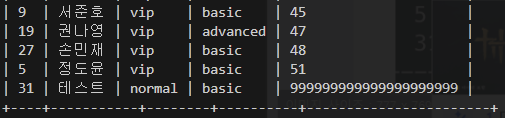
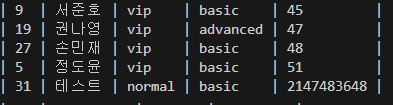
fix: restore numeric validation and signed literal parsing

diff --git a/tests/test_executor.c b/tests/test_executor.c
@@ -5,6 +5,7 @@
 #include "test_helpers.h"
 
 #include <limits.h>
+#include <stdio.h>
 
 static int run_statement(const char *sql) {
     Token *tokens;
@@ -155,6 +156,80 @@ static int test_unknown_order_by_column_rejected(void) {
     return 1;
 }
 
+static int test_int_overflow_rejected(void) {
+    char workspace[PATH_MAX];
+    char schema_dir[PATH_MAX];
+    char data_dir[PATH_MAX];
+
+    if (!th_setup_workspace("executor_int_overflow", workspace, sizeof(workspace))) {
+        return th_fail("failed to create temporary workspace");
+    }
+
+    th_join_path(schema_dir, sizeof(schema_dir), workspace, "schemas");
+    th_join_path(data_dir, sizeof(data_dir), workspace, "data");
+
+    if (!th_write_members_schema(schema_dir)) {
+        th_remove_tree(workspace);
+        return th_fail("failed to write members schema");
+    }
+
+    config_set_schema_dir(schema_dir);
+    config_set_data_dir(data_dir);
+
+    if (run_statement(
+            "INSERT INTO members (id, name, grade, class, age) VALUES (3, 'Alice', 'vip', 'advanced', 999999999999999999999);") !=
+        -1) {
+        th_remove_tree(workspace);
+        return th_fail("INT overflow should fail");
+    }
+
+    th_remove_tree(workspace);
+    return 1;
+}
+
+static int test_float_and_date_validation_rejected(void) {
+    char workspace[PATH_MAX];
+    char schema_dir[PATH_MAX];
+    char data_dir[PATH_MAX];
+    char schema_path[PATH_MAX];
+
+    if (!th_setup_workspace("executor_float_date", workspace, sizeof(workspace))) {
+        return th_fail("failed to create temporary workspace");
+    }
+
+    th_join_path(schema_dir, sizeof(schema_dir), workspace, "schemas");
+    th_join_path(data_dir, sizeof(data_dir), workspace, "data");
+    th_join_path(schema_path, sizeof(schema_path), schema_dir, "typed_values.schema");
+
+    if (!th_write_text_file(schema_path,
+                            "id,INT,0,0,1\n"
+                            "score,FLOAT,0,0,0\n"
+                            "created_at,DATE,0,0,0\n")) {
+        th_remove_tree(workspace);
+        return th_fail("failed to write typed_values schema");
+    }
+
+    config_set_schema_dir(schema_dir);
+    config_set_data_dir(data_dir);
+
+    if (run_statement(
+            "INSERT INTO typed_values (id, score, created_at) VALUES (1, 'nan', '2026-04-08');") !=
+        -1) {
+        th_remove_tree(workspace);
+        return th_fail("non-finite FLOAT should fail");
+    }
+
+    if (run_statement(
+            "INSERT INTO typed_values (id, score, created_at) VALUES (2, 1.5, '2026-02-31');") !=
+        -1) {
+        th_remove_tree(workspace);
+        return th_fail("invalid DATE should fail");
+    }
+
+    th_remove_tree(workspace);
+    return 1;
+}
+
 int main(void) {
     int passed = 0;
     int failed = 0;
@@ -193,6 +268,24 @@ int main(void) {
     } else {
         failed++;
         th_print_result("unknown_order_by_column_rejected", 0);
+    }
+
+    th_reset_reason();
+    if (test_int_overflow_rejected()) {
+        passed++;
+        th_print_result("int_overflow_rejected", 1);
+    } else {
+        failed++;
+        th_print_result("int_overflow_rejected", 0);
+    }
+
+    th_reset_reason();
+    if (test_float_and_date_validation_rejected()) {
+        passed++;
+        th_print_result("float_and_date_validation_rejected", 1);
+    } else {
+        failed++;
+        th_print_result("float_and_date_validation_rejected", 0);
     }
 
     printf("Tests: %d passed, %d failed\n", passed, failed);

diff --git a/src/lexer.c b/src/lexer.c
@@ -125,6 +125,50 @@ static int read_string_literal(const char *sql,
     return -1;
 }
 
+static int read_number_literal(const char *sql,
+                               int *cursor,
+                               int line,
+                               Token **tokens,
+                               int *count,
+                               int *capacity) {
+    char buffer[MAX_TOKEN_LEN];
+    int length = 0;
+    int index = *cursor;
+    int seen_dot = 0;
+    int seen_digit = 0;
+
+    if (sql[index] == '+' || sql[index] == '-') {
+        if (length < MAX_TOKEN_LEN - 1) {
+            buffer[length++] = sql[index];
+        }
+        index++;
+    }
+
+    while (isdigit((unsigned char)sql[index]) || sql[index] == '.') {
+        if (sql[index] == '.') {
+            if (seen_dot) {
+                break;
+            }
+            seen_dot = 1;
+        } else {
+            seen_digit = 1;
+        }
+
+        if (length < MAX_TOKEN_LEN - 1) {
+            buffer[length++] = sql[index];
+        }
+        index++;
+    }
+
+    if (!seen_digit) {
+        return 0;
+    }
+
+    buffer[length] = '\0';
+    *cursor = index;
+    return append_token(tokens, count, capacity, TOKEN_NUMBER, buffer, line);
+}
+
 Token *tokenize(const char *sql, int *token_count) {
     Token *tokens = NULL;
     int count = 0;
@@ -200,26 +244,9 @@ Token *tokenize(const char *sql, int *token_count) {
             continue;
         }
 
-        if (isdigit((unsigned char)ch)) {
-            char buffer[MAX_TOKEN_LEN];
-            int length = 0;
-            int seen_dot = 0;
-
-            while (isdigit((unsigned char)sql[cursor]) || sql[cursor] == '.') {
-                if (sql[cursor] == '.') {
-                    if (seen_dot) {
-                        break;
-                    }
-                    seen_dot = 1;
-                }
-                if (length < MAX_TOKEN_LEN - 1) {
-                    buffer[length++] = sql[cursor];
-                }
-                cursor++;
-            }
-            buffer[length] = '\0';
-
-            if (append_token(&tokens, &count, &capacity, TOKEN_NUMBER, buffer, line) != 0) {
+        if (isdigit((unsigned char)ch) ||
+            ((ch == '+' || ch == '-') && isdigit((unsigned char)sql[cursor + 1]))) {
+            if (read_number_literal(sql, &cursor, line, &tokens, &count, &capacity) != 0) {
                 free(tokens);
                 return NULL;
             }

diff --git a/src/executor.c b/src/executor.c
@@ -5,6 +5,8 @@
 #include "storage.h"
 
 #include <ctype.h>
+#include <errno.h>
+#include <float.h>
 #include <stdio.h>
 #include <stdlib.h>
 #include <string.h>
@@ -15,28 +17,44 @@ static SortDirection g_sort_direction = SORT_ASC;
 
 static int is_valid_int(const char *text) {
     char *end_ptr;
+    long value;
 
     if (text == NULL || text[0] == '\0') {
         return 0;
     }
 
-    strtol(text, &end_ptr, 10);
-    return *end_ptr == '\0';
+    errno = 0;
+    value = strtol(text, &end_ptr, 10);
+    return errno == 0 && *end_ptr == '\0' && value >= INT32_MIN && value <= INT32_MAX;
 }
 
 static int is_valid_float(const char *text) {
     char *end_ptr;
+    double value;
 
     if (text == NULL || text[0] == '\0') {
         return 0;
     }
 
-    strtod(text, &end_ptr);
-    return *end_ptr == '\0';
+    errno = 0;
+    value = strtod(text, &end_ptr);
+    return errno == 0 && *end_ptr == '\0' &&
+           value == value &&
+           value >= -DBL_MAX &&
+           value <= DBL_MAX;
+}
+
+static int is_leap_year(int year) {
+    return ((year % 4 == 0) && (year % 100 != 0)) || (year % 400 == 0);
 }
 
 static int is_valid_date(const char *text) {
+    static const int DAYS_IN_MONTH[] = {31, 28, 31, 30, 31, 30, 31, 31, 30, 31, 30, 31};
     int index;
+    int year;
+    int month;
+    int day;
+    int max_day;
 
     if (text == NULL || strlen(text) != 10) {
         return 0;
@@ -52,7 +70,20 @@ static int is_valid_date(const char *text) {
         }
     }
 
-    return 1;
+    year = (text[0] - '0') * 1000 + (text[1] - '0') * 100 + (text[2] - '0') * 10 + (text[3] - '0');
+    month = (text[5] - '0') * 10 + (text[6] - '0');
+    day = (text[8] - '0') * 10 + (text[9] - '0');
+
+    if (month < 1 || month > 12) {
+        return 0;
+    }
+
+    max_day = DAYS_IN_MONTH[month - 1];
+    if (month == 2 && is_leap_year(year)) {
+        max_day = 29;
+    }
+
+    return day >= 1 && day <= max_day;
 }
 
 static int contains_forbidden_storage_char(const char *text) {

diff --git a/tests/test_lexer.c b/tests/test_lexer.c
@@ -95,6 +95,32 @@ static int test_order_by_keywords(void) {
     return 1;
 }
 
+static int test_negative_number_literal(void) {
+    Token *tokens;
+    int token_count = 0;
+    int found_negative = 0;
+
+    tokens = tokenize("INSERT INTO members (age) VALUES (-55);", &token_count);
+    if (tokens == NULL) {
+        return th_fail("tokenize returned NULL for negative number");
+    }
+
+    for (int i = 0; i < token_count; ++i) {
+        if (tokens[i].type == TOKEN_NUMBER && strcmp(tokens[i].value, "-55") == 0) {
+            found_negative = 1;
+            break;
+        }
+    }
+
+    free_tokens(tokens);
+
+    if (!found_negative) {
+        return th_fail("negative numeric literal was not preserved");
+    }
+
+    return 1;
+}
+
 static int test_unterminated_string(void) {
     Token *tokens;
     int token_count = 0;
@@ -146,6 +172,15 @@ int main(void) {
     } else {
         failed++;
         th_print_result("order_by_keywords", 0);
+    }
+
+    th_reset_reason();
+    if (test_negative_number_literal()) {
+        passed++;
+        th_print_result("negative_number_literal", 1);
+    } else {
+        failed++;
+        th_print_result("negative_number_literal", 0);
     }
 
     th_reset_reason();

diff --git a/README.md b/README.md
@@ -279,14 +279,20 @@ INSERT INTO members (id, name, grade, class, age) VALUES (31, '테스트', 'norm
 
 `INSERT` 문 처리 과정에서 `INT` 컬럼에 대해 숫자 형식만 확인하고, 실제 `int32_t` 범위 초과 여부는 검사하지 않아 오버플로 값이 그대로 저장되는 문제가 있었습니다.
 
-- 증상: `999999999999999999999` 같은 `INT` 범위 초과 값이 에러 없이 저장됨
-- 원인: `strtol` 결과를 사용하더라도 `INT32_MIN ~ INT32_MAX` 범위 검증이 빠져 있었음
+- 증상: `2147483648` 같은 `INT` 범위 초과 값이 에러 없이 저장됨
+
+문제 발생 흐름:
+
+- SQL에서 `2147483648`을 입력함
+- Parser가 이 값을 숫자 리터럴로 받아둠
+- Executor가 "정수 형식인지"만 확인하고 범위 초과 여부는 검사하지 않음
+- Storage가 그 값을 그대로 `.tbl` 파일에 저장함
 
 
 문제 재현 쿼리:
 
 ```sql
-INSERT INTO members (id, name, grade, class, age) VALUES (31, '테스트', 'normal', 'basic', 999999999999999999999);
+INSERT INTO members (id, name, grade, class, age) VALUES (31, '테스트', 'normal', 'basic', 2147483648);
 ```
 
 수정 전 결과:
